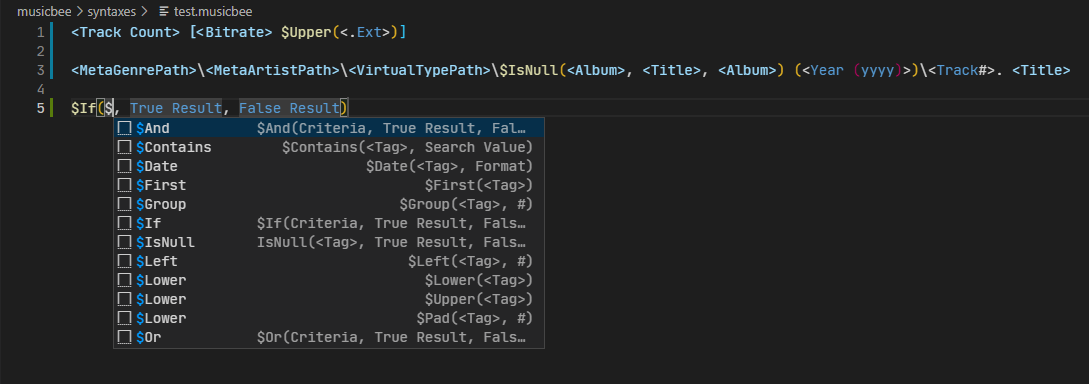
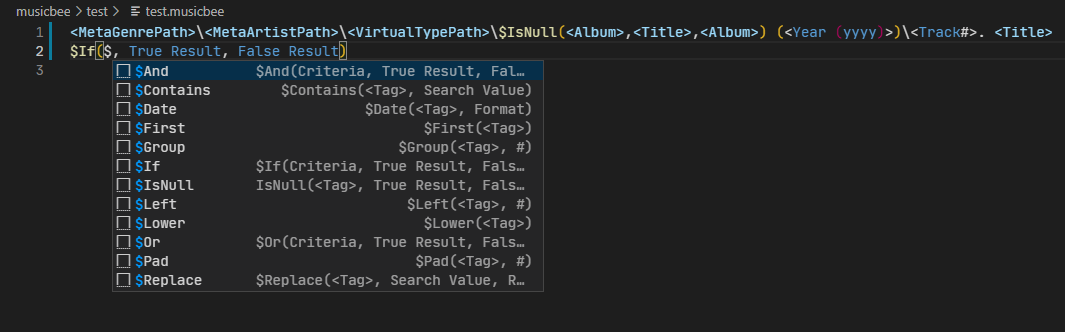
Change preview image

Changed region(s): [[0.0, 0.0, 0.9915, 0.9036]]

diff --git a/CHANGELOG.md b/CHANGELOG.md
@@ -18,3 +18,9 @@ Check [Keep a Changelog](http://keepachangelog.com/) for recommendations on how 
 ### Fixed
 
 - Images for VSCode extension *need* to have a http url to display, changed from relative path to raw url.
+  
+## [1.0.3]
+
+### Fixed
+
+- Chnage preview image to not show a fixed bug lol
